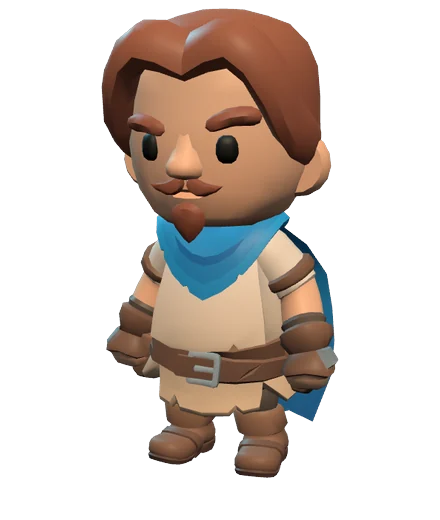
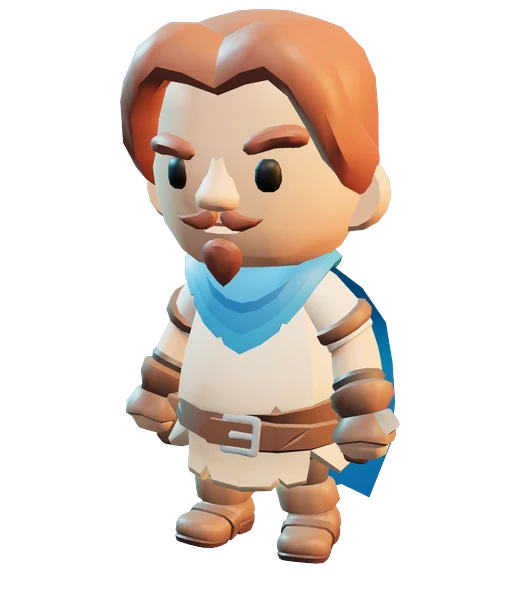
Site: relit rank characters (studio key, fill and rim lights, 2x resolution); Captain cheers, Party Leader unarmed; ranks carry PAiMM stages and lifts with source; footer privacy settings button sits beside the policy link

diff --git a/index.html b/index.html
@@ -182,12 +182,12 @@ h3 { font-size: 26px; line-height: 1.1; text-transform: uppercase; letter-spacin
 .climb { list-style: none; margin: 72px 0 0; padding: 0; display: grid; grid-template-columns: repeat(5, minmax(0, 1fr)); gap: 18px; align-items: end; }
 .rank { --tint: 116, 224, 252; position: relative; background: var(--paper); color: var(--ink); border: 2px solid var(--ink); box-shadow: 6px 6px 0 var(--ink); display: flex; flex-direction: column; }
 .rank.r1 { --tint: 74, 160, 90; margin-bottom: 0; }
-.rank.r2 { --tint: 64, 140, 210; margin-bottom: 28px; }
+.rank.r2 { --tint: 64, 140, 210; --lift: 24px; margin-bottom: 28px; }
 .rank.r3 { --tint: 128, 90, 200; margin-bottom: 56px; }
 .rank.r4 { --tint: 150, 160, 175; margin-bottom: 84px; }
-.rank.r5 { --tint: 244, 148, 40; margin-bottom: 112px; box-shadow: 8px 8px 0 var(--orange); }
+.rank.r5 { --size: 290px; --tint: 244, 148, 40; --lift: 6px; margin-bottom: 112px; box-shadow: 8px 8px 0 var(--orange); }
 .stage { position: relative; height: 150px; border-bottom: 2px solid var(--ink); background: radial-gradient(80% 90% at 50% 100%, rgba(var(--tint), .55), rgba(var(--tint), .12) 70%), #0e1a2e; clip-path: inset(-100px -40px 0 -40px); }
-.stage img { position: absolute; left: 50%; bottom: -97px; width: 260px; max-width: none; height: auto; transform: translateX(-50%); filter: drop-shadow(0 10px 14px rgba(0, 0, 0, .45)); transition: transform .35s cubic-bezier(.2, .8, .2, 1); }
+.stage img { position: absolute; left: 50%; bottom: calc(-97px + var(--lift, 0px)); width: var(--size, 260px); max-width: none; height: auto; transform: translateX(-50%); filter: drop-shadow(0 10px 14px rgba(0, 0, 0, .45)); transition: transform .35s cubic-bezier(.2, .8, .2, 1); }
 .rank:hover .stage img { transform: translateX(-50%) translateY(-10px) scale(1.04); }
 .rank-body { padding: 16px 18px 20px; display: grid; gap: 8px; }
 .rank .lv { margin: 0; font: italic 800 15px/1 var(--display); letter-spacing: .12em; text-transform: uppercase; color: var(--blue-deep); }
@@ -195,10 +195,11 @@ h3 { font-size: 26px; line-height: 1.1; text-transform: uppercase; letter-spacin
 .xp { display: flex; gap: 4px; margin-block: 2px 6px; }
 .xp i { flex: 1; height: 7px; border: 1.5px solid var(--ink); background: transparent; transform: skewX(-20deg); }
 .xp i.on { background: var(--orange); }
-.rank .quest, .rank .unlock { margin: 0; font-size: 15px; line-height: 1.4; color: var(--ink-soft); }
-.rank .unlock { color: var(--ink); font-weight: 700; }
-.rank small { display: block; font: 800 12px/1.4 var(--display); letter-spacing: .12em; text-transform: uppercase; color: var(--ink-soft); }
-.rank .unlock small { color: var(--blue-deep); }
+.rank .lift { margin: 0; display: flex; align-items: baseline; gap: 6px; font: 800 12px/1 var(--display); letter-spacing: .1em; text-transform: uppercase; color: var(--ink-soft); }
+.rank .lift b { font: italic 800 30px/1 var(--display); letter-spacing: 0; color: var(--orange); -webkit-text-stroke: 1px var(--ink); }
+.rank .desc { margin: 0; font-size: 15px; line-height: 1.45; color: var(--ink-soft); }
+.tags { list-style: none; margin: 4px 0 0; padding: 0; display: flex; flex-wrap: wrap; gap: 6px; }
+.tags li { padding: 4px 9px; border: 1.5px solid var(--ink); border-radius: 99px; font: 800 12px/1.2 var(--display); letter-spacing: .08em; text-transform: uppercase; background: rgba(var(--tint), .18); }
 
 /* pills */
 .pills { display: flex; flex-wrap: wrap; gap: 8px; }
@@ -245,7 +246,7 @@ h3 { font-size: 26px; line-height: 1.1; text-transform: uppercase; letter-spacin
 .footer { border-top: 1px solid var(--rule); display: grid; grid-template-columns: 1fr auto 1fr; align-items: center; gap: 16px; padding-block: 32px; font-size: 14px; color: var(--on-dark-muted); }
 .footer p { margin: 0; }
 .footer .links { justify-self: end; display: flex; gap: 20px; align-items: center; }
-.footer .links a { min-height: 44px; display: inline-flex; align-items: center; text-decoration: underline; }
+.footer .links a, .footer .links .dan-privacy { min-height: 44px; display: inline-flex; align-items: center; text-decoration: underline; font: inherit; letter-spacing: 0; text-transform: none; color: inherit; padding: 0; }
 
 /* reveal */
 .reveal { transition: opacity .7s ease, transform .7s ease; }
@@ -264,7 +265,7 @@ html.has-reveal .reveal.shown { transition: none; }
   .climb { grid-template-columns: 1fr; gap: 56px; margin-top: 64px; max-width: 460px; margin-inline: auto; }
   .rank.r1, .rank.r2, .rank.r3, .rank.r4, .rank.r5 { margin-bottom: 0; }
   .stage { height: 140px; }
-  .stage img { width: 240px; bottom: -100px; }
+  .stage img { width: 240px; bottom: calc(-100px + var(--lift, 0px)); }
   .hero { grid-template-columns: 1fr; text-align: center; min-height: 0; gap: 40px; }
   .hero .lede { margin-inline: auto; }
   .hero-actions { justify-content: center; }
@@ -423,56 +424,62 @@ html.has-reveal .reveal.shown { transition: none; }
       </div>
       <ol class="climb reveal d1">
         <li class="rank r1">
-          <div class="stage"><img src="assets/rank-apprentice.webp" width="440" height="520" alt="Apprentice: a hooded rogue in green" loading="lazy" decoding="async" /></div>
+          <div class="stage"><img src="assets/rank-apprentice.webp" width="520" height="614" alt="Apprentice: a hooded rogue in green" loading="lazy" decoding="async" /></div>
           <div class="rank-body">
-            <p class="lv">Rank 1</p>
+            <p class="lv">Rank 1 &middot; Foundation</p>
             <h3>Apprentice</h3>
+            <p class="lift"><b>+25%</b> productivity</p>
             <div class="xp" aria-hidden="true"><i class="on"></i><i></i><i></i><i></i><i></i></div>
-            <p class="quest"><small>Quest</small>Write a launch email with AI</p>
-            <p class="unlock"><small>Unlocks</small>One great result from a model</p>
+            <p class="desc">Get reliable first wins from one model, with guardrails, and learn to tell good output from bad.</p>
+            <ul class="tags"><li>Prompting</li><li>Judgment</li><li>Baseline</li></ul>
           </div>
         </li>
         <li class="rank r2">
-          <div class="stage"><img src="assets/rank-adventurer.webp" width="440" height="520" alt="Adventurer: a ranger with a blue scarf" loading="lazy" decoding="async" /></div>
+          <div class="stage"><img src="assets/rank-adventurer.webp" width="520" height="614" alt="Adventurer: a ranger with a blue scarf" loading="lazy" decoding="async" /></div>
           <div class="rank-body">
-            <p class="lv">Rank 2</p>
+            <p class="lv">Rank 2 &middot; Literacy</p>
             <h3>Adventurer</h3>
+            <p class="lift"><b>+75%</b> productivity</p>
             <div class="xp" aria-hidden="true"><i class="on"></i><i class="on"></i><i></i><i></i><i></i></div>
-            <p class="quest"><small>Quest</small>Fix a bug with one agent</p>
-            <p class="unlock"><small>Unlocks</small>An agent that edits real files, safely</p>
+            <p class="desc">Learn the language of agents: scope a task, set guardrails and review the change.</p>
+            <ul class="tags"><li>Scoping</li><li>Guardrails</li><li>Review</li></ul>
           </div>
         </li>
         <li class="rank r3">
-          <div class="stage"><img src="assets/rank-artificer.webp" width="440" height="520" alt="Artificer: a mage in a wide purple hat" loading="lazy" decoding="async" /></div>
+          <div class="stage"><img src="assets/rank-artificer.webp" width="520" height="614" alt="Artificer: a mage in a wide purple hat" loading="lazy" decoding="async" /></div>
           <div class="rank-body">
-            <p class="lv">Rank 3</p>
+            <p class="lv">Rank 3 &middot; Fluency</p>
             <h3>Artificer</h3>
+            <p class="lift"><b>+300%</b> productivity</p>
             <div class="xp" aria-hidden="true"><i class="on"></i><i class="on"></i><i class="on"></i><i></i><i></i></div>
-            <p class="quest"><small>Quest</small>Add tests the agent must pass</p>
-            <p class="unlock"><small>Unlocks</small>Agents armed with tools and checks</p>
+            <p class="desc">Agents with tests, tools and checks become part of your daily workflow.</p>
+            <ul class="tags"><li>Tests</li><li>Tools</li><li>Verification</li></ul>
           </div>
         </li>
         <li class="rank r4">
-          <div class="stage"><img src="assets/rank-party-leader.webp" width="440" height="520" alt="Party Leader: a knight with sword and spiked shield" loading="lazy" decoding="async" /></div>
+          <div class="stage"><img src="assets/rank-party-leader.webp" width="520" height="614" alt="Party Leader: a knight with sword and spiked shield" loading="lazy" decoding="async" /></div>
           <div class="rank-body">
-            <p class="lv">Rank 4</p>
+            <p class="lv">Rank 4 &middot; Expert</p>
             <h3>Party Leader</h3>
+            <p class="lift"><b>+500%</b> productivity</p>
             <div class="xp" aria-hidden="true"><i class="on"></i><i class="on"></i><i class="on"></i><i class="on"></i><i></i></div>
-            <p class="quest"><small>Quest</small>Launch a landing page with three agents</p>
-            <p class="unlock"><small>Unlocks</small>Plan, split and hand work to a crew</p>
+            <p class="desc">Plan the work, split it across several agents and bring it back together.</p>
+            <ul class="tags"><li>Planning</li><li>Delegation</li><li>Hand-offs</li></ul>
           </div>
         </li>
         <li class="rank r5">
-          <div class="stage"><img src="assets/rank-captain.webp" width="440" height="520" alt="Captain: the Black Knight in dark plate armor" loading="lazy" decoding="async" /></div>
+          <div class="stage"><img src="assets/rank-captain.webp" width="520" height="614" alt="Captain: the Black Knight in dark plate armor" loading="lazy" decoding="async" /></div>
           <div class="rank-body">
-            <p class="lv">Rank 5</p>
+            <p class="lv">Rank 5 &middot; Mastery</p>
             <h3>Captain</h3>
+            <p class="lift"><b>+1000%</b> productivity</p>
             <div class="xp" aria-hidden="true"><i class="on"></i><i class="on"></i><i class="on"></i><i class="on"></i><i class="on"></i></div>
-            <p class="quest"><small>Quest</small>Run a fleet with a reviewer agent</p>
-            <p class="unlock"><small>Unlocks</small>Many agents, verified at scale</p>
+            <p class="desc">Run a fleet with reviewer agents and shared context. Ideas reach production with little friction.</p>
+            <ul class="tags"><li>Orchestration</li><li>Shared context</li><li>Review at scale</li></ul>
           </div>
         </li>
       </ol>
+      <p class="fine">Stages and expected productivity lifts from Trident&rsquo;s <a href="https://www.withtrident.com/masterclass?show=ai-maturity-model" rel="noopener">Progressive AI Maturity Model</a>, measured by Ryan J. Lee across client engagements.</p>
     </section>
 
     <section id="your-way" class="section shell">

diff --git a/analytics.js b/analytics.js
@@ -173,16 +173,18 @@
     if (signal) return;
     var button = document.createElement('button');
     button.type = 'button';
-    button.textContent = 'Privacy';
-    button.setAttribute('aria-label', 'Privacy: recording of this site and the demo');
     var footer = document.querySelector('footer');
+    // Pages that already link the privacy policy get a distinct label, placed beside that link.
+    var policy = footer && footer.querySelector('a[href*="privacy"]');
+    button.textContent = policy ? 'Privacy settings' : 'Privacy';
+    button.setAttribute('aria-label', 'Privacy settings: recording of this site and the demo');
     button.className = footer ? 'dan-privacy' : 'dan-privacy dan-float';
     button.addEventListener('click', function () {
       if (notice && !notice.hidden) { notice.hidden = true; return; }
       showNotice();
       notice.querySelector('.dan-ok').focus({ preventScroll: true });
     });
-    (footer || document.body).appendChild(button);
+    if (policy) policy.after(button); else (footer || document.body).appendChild(button);
   }
   if (document.readyState === 'loading') document.addEventListener('DOMContentLoaded', start); else start();
 })();
